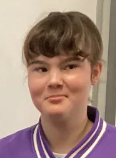
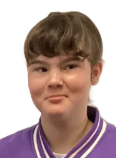
Cutout data/grupoinventado/blingyourver.json (quitar fondo)

diff --git a/js/ranking.js b/js/ranking.js
@@ -4,7 +4,7 @@
 /* ========================================= */
 
 /* Bump when the avatar images change, to bust the browser/Pages cache. */
-const PHOTO_VER = 181;
+const PHOTO_VER = 182;
 window.PHOTO_VER = PHOTO_VER;
 
 const Ranking = {
